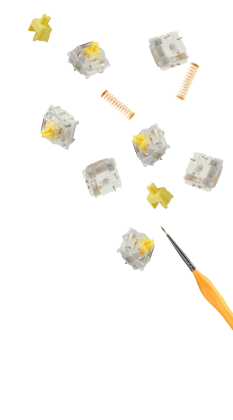
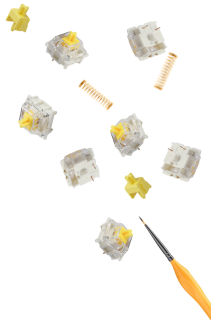
Added carousel to index.html

diff --git a/home/templates/home/index.html b/home/templates/home/index.html
@@ -1,26 +1,75 @@
 {% extends 'base.html' %}
-
 {% block content %}
-
 {% for post in object_list %}
-    <p></p>
-{% endfor %}
 
-<a href ="{% url 'posts' %}">Posts</a>
-<div class="container-fluid">
-    <div class="row">
-        <div class="col index-header">
-            <img class="img-fluid" src="/static/media/show-your-keeb-hero.webp" alt="Image of a keyboard">
+{% endfor %}
+<!-- Carousel -->
+<div id="hero-carousel" class="carousel slide" data-bs-ride="carousel">
+
+    <!-- Indicators/dots -->
+    <div class="carousel-indicators">
+      <button type="button" data-bs-target="#demo" data-bs-slide-to="0" class="active"></button>
+      <button type="button" data-bs-target="#demo" data-bs-slide-to="1"></button>
+      <button type="button" data-bs-target="#demo" data-bs-slide-to="2"></button>
+    </div>
+  
+    <!-- The slideshow/carousel -->
+    <div class="carousel-inner">
+      <div class="carousel-item active hero-item">
+        <img src="static/media/carousel1.png" alt="" class="d-block w-100 hero-item-img">
+        <div class="carousel-caption top-0 mt-5">
+            <h1>Show the community </br><span class="lime-h1">your</span> keyboard</h1>
+            <p>Join in and register on the site to create posts, make comments</br>
+                and get inspired by all custom builds!
+            </p>
+            <a href="{% url 'register' %}" class="btn btn-lime mt-5">Register now!</a>
+          </div>
+      </div>
+      <div class="carousel-item hero-item">
+        <img src="static/media/carousel2.png" alt="" class="d-block w-100 hero-item-img">
+        <div class="carousel-caption top-0 mt-5">
+            <h1>Show the community </br><span class="lime-h1">your</span> keyboard</h1>
+            <p>Join in and register on the site to create posts, make comments</br>
+                and get inspired by all custom builds!
+            </p>
+            <a href="{% url 'register' %}" class="btn btn-lime mt-5">Register now!</a>
+          </div>
+      </div>
+      <div class="carousel-item hero-item">
+        <img src="static/media/carousel3.png" alt="" class="d-block w-100 hero-item-img">
+        <div class="carousel-caption top-0 mt-5">
+            <h1>Show the community </br><span class="lime-h1">your</span> keyboard</h1>
+            <p>Join in and register on the site to create posts, make comments</br>
+                and get inspired by all custom builds!
+            </p>
+            <a href="{% url 'register' %}" class="btn btn-lime mt-5">Register now!</a>
+          </div>
+      </div>
+    </div>
+  
+    <!-- Left and right controls/icons -->
+    <button class="carousel-control-prev" type="button" data-bs-target="#hero-carousel" data-bs-slide="prev">
+      <span class="carousel-control-prev-icon"></span>
+    </button>
+    <button class="carousel-control-next" type="button" data-bs-target="#hero-carousel" data-bs-slide="next">
+      <span class="carousel-control-next-icon"></span>
+    </button>
+  </div>
+<hr>
+<div class="container">
+    <div class="row justify-content-md-center">
+        <div class="col col-lg-2 text-center">
+            <h3>Total posts </br> 
+                {{ post_numbers }}</h3>
         </div>
-        <div class="col">
-            <h2>Show the community your keyboard</h2>
-        </div>
-        <div class="col text-end">
-            <img class="img-fluid" src="/static/media/show-your-keeb-hero-switches.png" alt="Image of a switches, springs and brush">
+        <div class="col col-lg-2 text-center">|</div>
+        <div class="col col-lg-2 text-center">
+            <h3>Total likes </br>
+                {{ total_likes }} </h3>
         </div>
     </div>
 </div>
-<h1>Total likes {{ total_likes }} </h1>
-<h1>Total posts {{ post_numbers }}</h1>
+
+<a href ="{% url 'posts' %}">Posts</a>
 
 {% endblock %}

diff --git a/templates/base.html b/templates/base.html
@@ -10,7 +10,7 @@
     <meta charset="utf-8">
     <meta name="viewport" content="width=device-width, initial-scale=1">
     <link rel="stylesheet" href="https://cdnjs.cloudflare.com/ajax/libs/font-awesome/5.15.3/css/all.min.css">
-    <link rel="stylesheet" href="path/to/bootstrap/css/bootstrap.min.css">
+    <link href="https://cdn.jsdelivr.net/npm/bootstrap@5.2.3/dist/css/bootstrap.min.css" rel="stylesheet" integrity="sha384-rbsA2VBKQhggwzxH7pPCaAqO46MgnOM80zW1RWuH61DGLwZJEdK2Kadq2F9CUG65" crossorigin="anonymous">
     <script src="https://kit.fontawesome.com/bd05bc0350.js" crossorigin="anonymous"></script>
     <title>
       {% block title %}
@@ -29,13 +29,24 @@
           </button>
           <div class="collapse navbar-collapse" id="navbarSupportedContent">
             <ul class="navbar-nav me-auto mb-2 mb-lg-0">
-              {% if user.is_authenticated %}
+
+              <li class="nav-item">
+                <a class="nav-link active" aria-current="page" href="{% url 'home' %}">Home</a>
+              </li>
               <li class="nav-item">
                 <a class="nav-link" href="{% url 'posts' %}">Posts</a>
               </li>
+              {% if user.is_authenticated %}
               <li class="nav-item">
                 <a class="nav-link" href="{% url 'post_create' %}">Create Post</a>
               </li>
+              {% endif %}
+              <li class="nav-item">
+                <a class="nav-link" href="#">Most Likes</a>
+              </li>
+              </ul>
+              <ul class="navbar-nav ms-auto mb-2 mb-lg-0">
+              {% if user.is_authenticated %}
               <li class="nav-item">
                 <a class="nav-link" href="{% url 'logout' %}">Logout</a>
               </li>
@@ -43,12 +54,6 @@
                 <a class="nav-link" href="{% url 'profile_edit' %}">Profile</a>
               </li>
               {% else %}
-              <li class="nav-item">
-                <a class="nav-link active" aria-current="page" href="{% url 'home' %}">Home</a>
-              </li>
-              <li class="nav-item">
-                <a class="nav-link" href="{% url 'posts' %}">Posts</a>
-              </li>
               <li class="nav-item">
                 <a class="nav-link" href="{% url 'register' %}">Register</a>
               </li>
@@ -59,17 +64,14 @@
             </ul>
             <form class="d-flex" role="search">
               <input class="form-control me-2" type="search" placeholder="Search" aria-label="Search">
-              <button class="btn btn-outline-success" type="submit">Search</button>
+              <button class="btn btn-dark" type="submit">Search</button>
             </form>
           </div>
         </div>
       </nav>
-    </br>
-    <div class="container">
         {% block content %}
 
         {% endblock %}
-    </div>
 
     <script src="https://cdn.jsdelivr.net/npm/bootstrap@5.3.0/dist/js/bootstrap.bundle.min.js" integrity="sha384-geWF76RCwLtnZ8qwWowPQNguL3RmwHVBC9FhGdlKrxdiJJigb/j/68SIy3Te4Bkz" crossorigin="anonymous"></script>
     <script src="https://cdn.jsdelivr.net/npm/@popperjs/core@2.11.8/dist/umd/popper.min.js" integrity="sha384-I7E8VVD/ismYTF4hNIPjVp/Zjvgyol6VFvRkX/vR+Vc4jQkC+hVqc2pM8ODewa9r" crossorigin="anonymous"></script>

diff --git a/static/css/base.css b/static/css/base.css
@@ -35,3 +35,22 @@ body {
 .navbar-background {
     background-color: #C9F234;
 }
+
+/* Carousel Styling*/
+.hero-item {
+    height: 480px;
+}
+
+.hero-item-img {
+    height: 100%;
+    object-fit: cover;
+    filter: brightness(0.5);
+}
+
+.lime-h1 {
+    color: #C9F234;
+}
+
+.btn-lime {
+    background-color: #C9F234;
+}

diff --git a/users/forms.py b/users/forms.py
@@ -2,6 +2,7 @@ from django.contrib.auth.forms import UserCreationForm, UserChangeForm
 from django.contrib.auth.models import User
 from django import forms
 from .models import User, Profile
+from cloudinary.models import CloudinaryField
 
 
 class RegisterForm(UserCreationForm):
@@ -27,7 +28,7 @@ class ProfileEditForm(UserChangeForm):
     email = forms.EmailField(widget=forms.EmailInput({'class': 'form-control'}))
     first_name = forms.CharField(max_length=150, widget=forms.TextInput(attrs={'class': 'form-control'}))
     last_name = forms.CharField(max_length=150, widget=forms.TextInput(attrs={'class': 'form-control'}))
-    image = forms.ImageField(required=False, widget=forms.ClearableFileInput(attrs={'class': 'form-control'}))
+    image = CloudinaryField('image', blank=True, null=True)
 
 
     class Meta:
